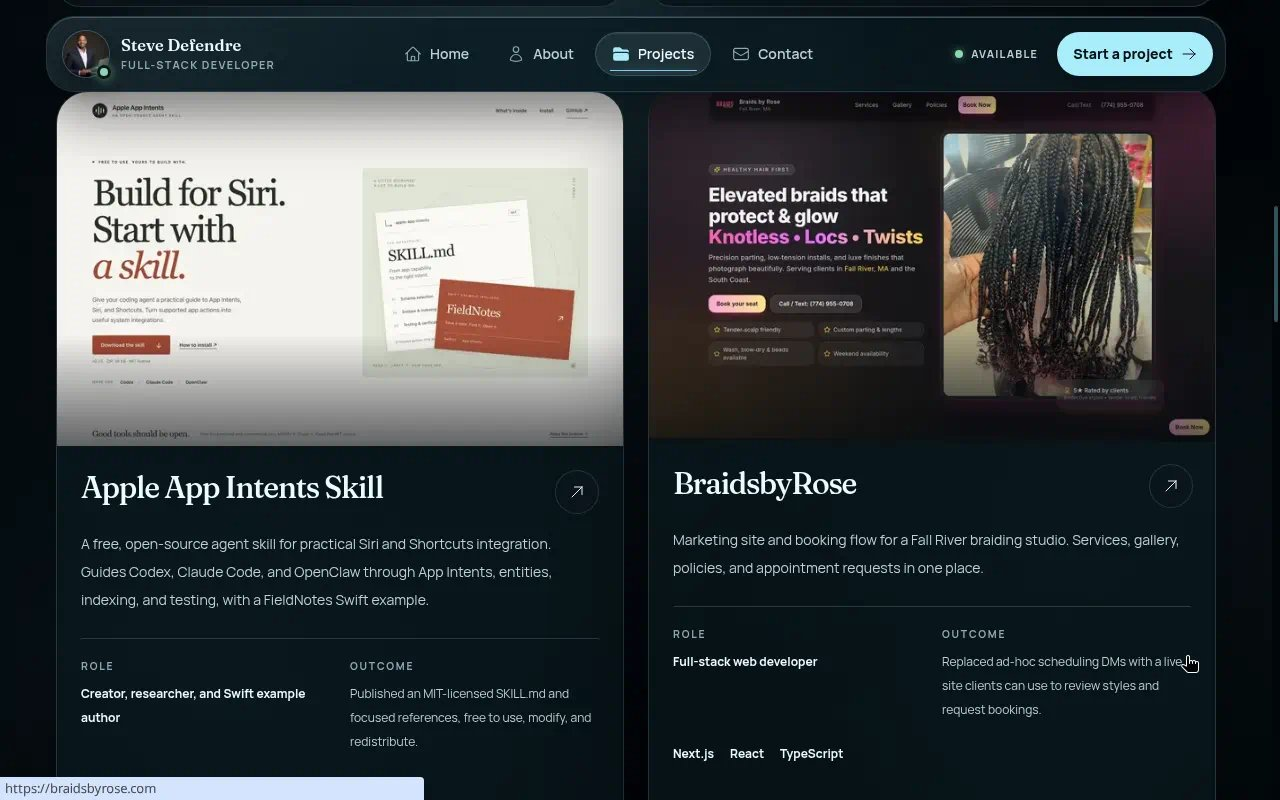
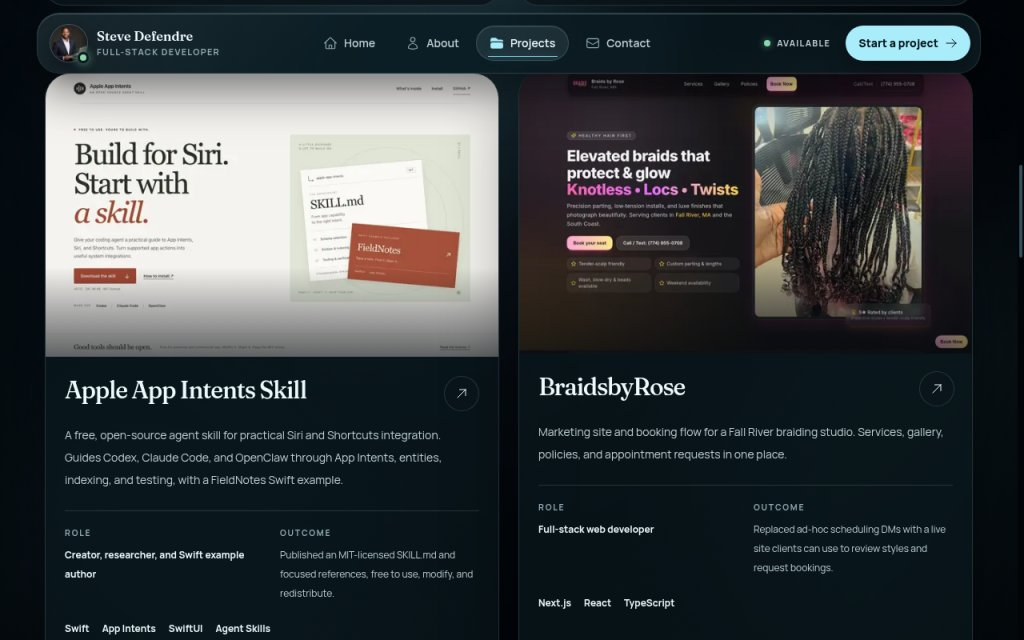
docs(evidence): PR #132 Before/After Apple App Intents catalog proof
Add verified mobile Before and refresh desktop Before JPG for the
Product catalog Apple card (production vs redesigned preview).

Changed region(s): [[0.0, 0.9688, 0.3438, 1.0], [0.9062, 0.8125, 0.9375, 0.8438]]

diff --git a/docs/evidence/pr-132-apple-preview-20261001/README.md b/docs/evidence/pr-132-apple-preview-20261001/README.md
@@ -1,18 +1,12 @@
-# PR #132 UI proof — Apple App Intents catalog preview
+# PR #132 — Apple App Intents catalog Before/After proof
 
-Labeled Before/After for the Product catalog Apple card (preview refresh from redesigned live skill page).
+Labeled Product catalog screenshots for the Apple App Intents preview refresh.
 
-## Desktop pair (primary proof) — `1280×720` PNG
+| File | Viewport | State |
+|------|----------|-------|
+| `before-catalog-desktop.jpg` | desktop `/projects` | production — "Build for Siri. Start with a skill." |
+| `after-catalog-desktop.jpg` | desktop `/projects` | this branch — "Your app. Beyond the app." |
+| `before-catalog-mobile.jpg` | mobile ~390px | production |
+| `after-catalog-mobile.jpg` | mobile ~390px | this branch |
 
-| Shot | Source | Notes |
-|------|--------|-------|
-| `before-catalog-desktop.png` | Production `https://steve-defendre-portfolio.vercel.app/projects?category=Product` | Old preview (`apple-app-intents-site.jpg`) — "Build for Siri. Start with a skill." |
-| `after-catalog-desktop.png` | Local `next start` on this PR branch (Vercel preview SSO-gated) | New dated asset `apple-app-intents-site-20261001.jpg` — "Your app. Beyond the app." |
-
-## Additional JPG captures
-
-- `before-catalog-desktop.jpg` / `after-catalog-desktop.jpg` — catalog pair
-- `before-home-desktop.jpg` — production homepage showing old Apple card preview
-- `after-catalog-mobile.jpg` — mobile After catalog
-
-Change: Apple App Intents catalog preview refreshed from the redesigned live skill page.
+Additional desktop PNGs / homepage Before may also be present from earlier capture passes.
